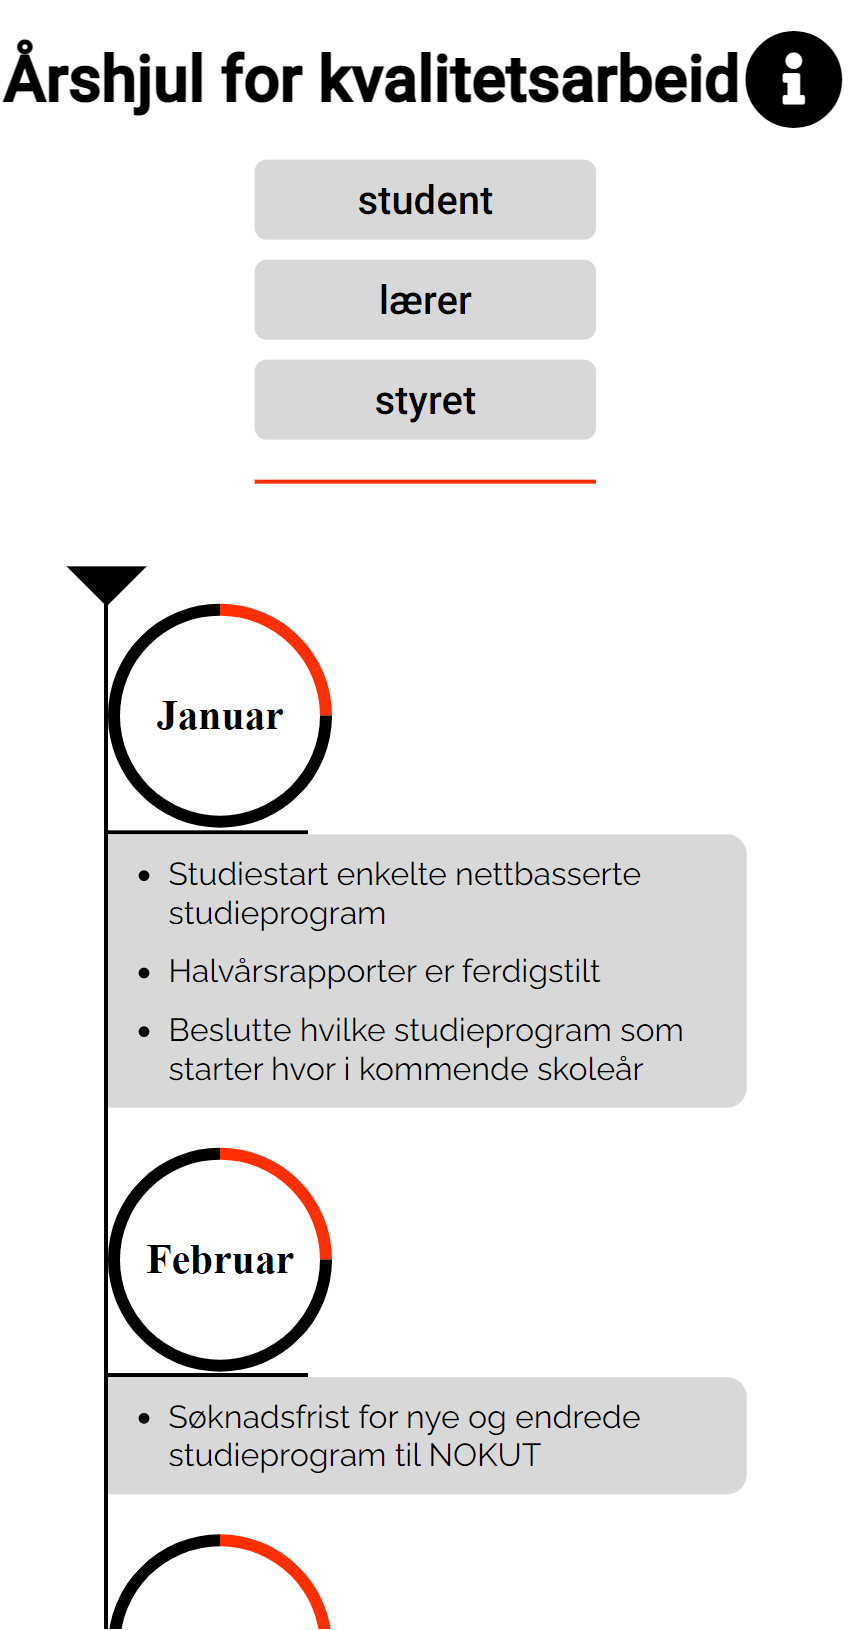
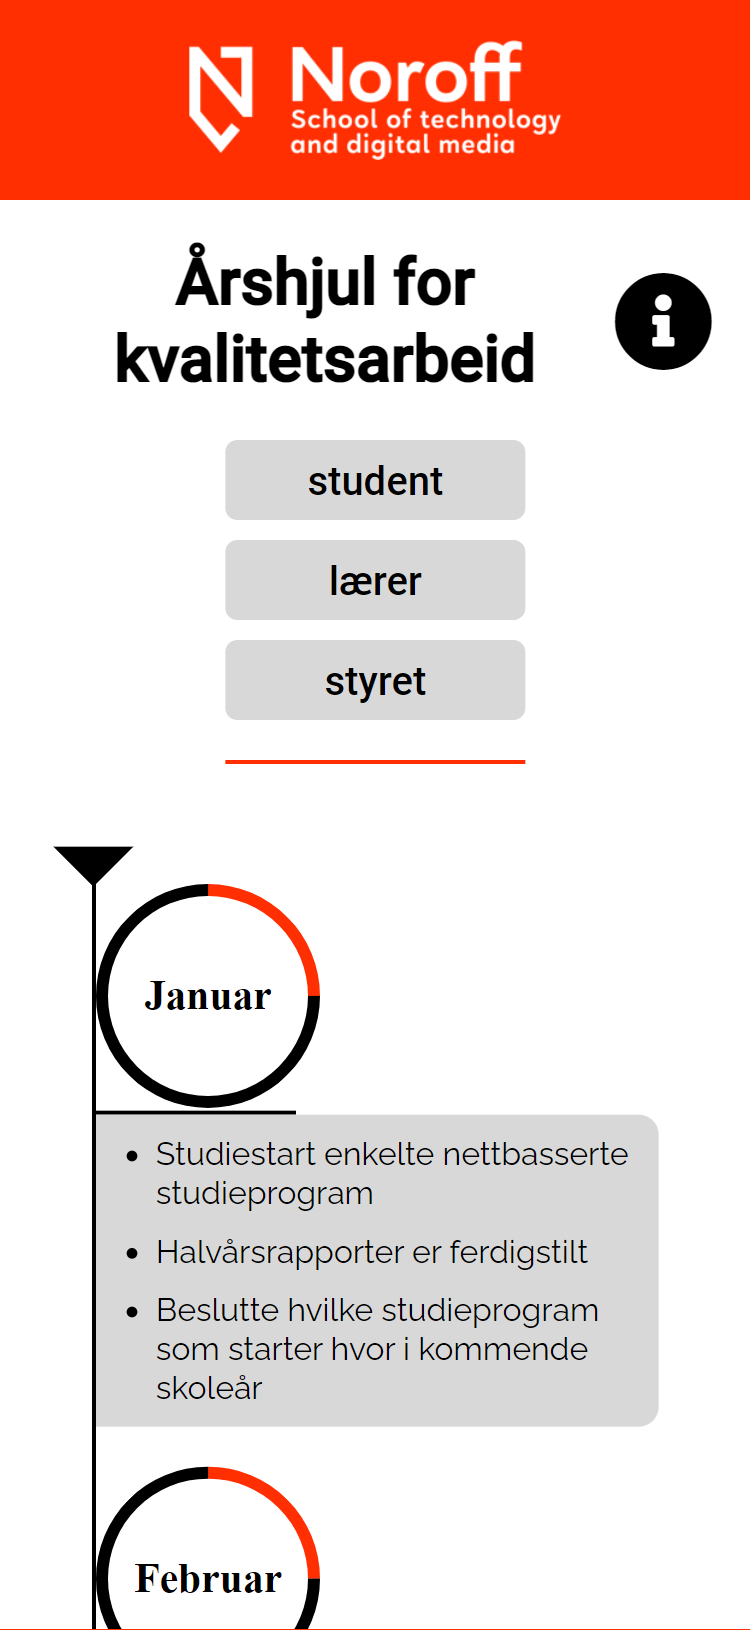
fixed images, style and typo

diff --git a/noroffQuality.html b/noroffQuality.html
@@ -20,11 +20,11 @@
             <a href="index.html#projects">My projects</a>
         </nav>
     </header>
-    <main class="grid">
-        <section class="grid">
+    <main class="grid" id="project">
+        <section class="grid" id="topText">
             <h1>Noroff quality</h1>
             <img src="./assets/quality.svg" alt="The logo for Noroff">
-            <p class="bold">A website where you can find relevant information about of what is happening when in the year</p>
+            <p class="bold">A website where students and teacher can find relevant information about of what is happening in the year</p>
 
             <div class="grid link">
                 <p class="bold">Link to project</p>
@@ -41,9 +41,8 @@
         </section>
         <section class="grid">
             <h2>The requirements</h2>
-            <p>Requirements was as following:</p>
             <ul>
-                <li>user testing to get relevant feedback and see if the product works as intended.</li>
+                <li>user testing to get feedback and see if the product works as intended.</li>
                 <li>
                     store and access the relevant data on an api.
                 </li>
@@ -52,8 +51,7 @@
         </section>
         <section class="grid" id="finalProduct">
             <h2>The final version</h2>
-            <p> The final product is a very simple and easy web page to use, there is not to many choices. the filtering of diffrent data is very fast, and it allows for secondary filters after the main filteris chosen.
-            </p>
+            
             <article class="grid look">
                 <div class="grid">
                 <h3>How it looks</h3>
@@ -61,20 +59,20 @@
                     page looks on diffrent screen sizes, as well as get a feeling of how it is.</p>
                 </div>
                 <div class="grid product mobile">
-                    <h4>Mobile devides</h4>
+                    <h4>Mobile devices</h4>
                     <p>content is displayed in a single column, so there is not too much being shown at once. </p>
                     <img src="./assets/screenshots/noroffmobile.png" alt="screenshot of the mobile version of noroffkvalitet">
                 </div>
                 <div class="grid product tablet">
                     <h4>tablet and medium sized devices</h4>
                     <p>
-                        Room for more content,  the diffrent data now has more width, use of difrent colors make the contrast easy to see between the diffrent months
+                        Room for more content. easy to see what content is grouped.
                     </p>
                     <img src="./assets/screenshots/norofftablet.png" alt="screenshot of the tablet version of noroffkvalitet">
                 </div>
                 <div class="grid product pc">
                     <h4>Laptop and desktop</h4>
-                    <p>with the simplicity of the webpage, the content does not need to look so diffrent from the tablet version, </p>
+                    <p>The page is kept simple, so there is little need to change between the bigger sizes</p>
                     
                     <img src="./assets/screenshots/noroffpc.png" alt="screenshot of the pc version of noroffkvalitet">
                 </div>
@@ -95,7 +93,7 @@
                     <li>Css</li>
                     <li>Figma</li>
                     <li>Javascript</li>
-                    <li>Wordpress for storing content</li>
+                    <li>Wordpress (as headless cms)</li>
 
                 </ul>
             </article>
@@ -119,7 +117,7 @@
 
     </main>
     <footer class="flex">
-        <a class="button" href="index.html#header">Back to top</a>
+        <a class="button" href="#header">Back to top</a>
 
     </footer>
 </body>

diff --git a/communityscienceMuseum.html b/communityscienceMuseum.html
@@ -20,8 +20,8 @@
             <a href="index.html#projects">My projects</a>
         </nav>
     </header>
-    <main class="grid">
-        <section class="grid">
+    <main class="grid" id="project">
+        <section class="grid" id="topText">
             <h1>Community Science Museum</h1>
             <img src="./assets/museumlogo.svg" alt="The logo for the museum">
             <p class="bold">A local museum for Children of all ages. With multiple exhibits and events</p>
@@ -45,11 +45,10 @@
         </section>
         <section class="grid">
             <h2>The requirements</h2>
-            <p>what the website needed</p>
+            
         </section>
         <section class="grid" id="finalProduct">
             <h2>The final version</h2>
-            <p> Here is the final version and its features. a website that works over multiple screen sizes, optimized for quick loading and follows WCAG guide lines.</p>
             <article class="grid look">
                 <div class="grid">
                 <h3>How it looks</h3>
@@ -57,7 +56,7 @@
                     page looks on diffrent screen sizes, as well as get a feeling of how it is.</p>
                 </div>
                 <div class="grid product mobile">
-                    <h4>Mobile devides</h4>
+                    <h4>Mobile devices</h4>
                     <p>On Mobile Devices, i took full advantage of the width of diffrent sizes, so it is more easy to look at images.</p>
                     <img src="./assets/screenshots/museummobile.png">
                 </div>
@@ -114,7 +113,7 @@
 
     </main>
     <footer class="flex">
-        <a class="button" href="index.html#header">Back to top</a>
+        <a class="button" href="#header">Back to top</a>
 
     </footer>
 </body>

diff --git a/css/style.css b/css/style.css
@@ -24,8 +24,16 @@ body{
 h1, h2, h3, h4, a{
     font-family: 'Montserrat', sans-serif;
 }
+h1, h2{
+    font-size: 2rem;
+}
+h3{
+    font-size: 1.8rem;
+}
 p, li{
     font-family: 'Roboto', sans-serif;
+    font-size: 1.3rem;
+
 }
 li{
     margin:8px 2px
@@ -35,6 +43,7 @@ li{
 }
 .link{
     margin-top: 10px;
+    font-size: 1.5rem;
 }
 .link p{
     margin: 2px;
@@ -173,10 +182,20 @@ footer{
     flex-direction: column;
 }
 /*about specific page */
+main#project{
+    row-gap: 100px;
+}
+section#topText p{
+    max-width: 65%;
+    text-align: center;
+}
 #about p{
     max-width: 430px;
+    
 }
+
 #about ul{
+    
     width: 100%;
     margin-top: 0px;
 }
@@ -184,40 +203,42 @@ footer{
     width: 100%;
     margin-bottom: 0px;
 }
+
 section#finalProduct{
-    row-gap: 100px;
 }
 section#finalProduct p{
     max-width: 400px;
 }
 .product{
-    grid-template-columns: 1fr 1fr;
-    max-width: 70%;
-    align-items: start;
-    column-gap: 10px;
+    grid-template-columns: 1fr  1fr;
+    height: 100vh;
+    column-gap: 50px;
 }
 section#finalProduct h4{
     grid-column: 1/3;
+    font-size: 1.8rem;
+}
+.product p{
+    font-size: 1.5rem;
+    line-height: 50px;
 }
 .look{
     row-gap: 50px;
 }
 .mobile img{
-    max-width: 60%;
+    max-width: 20vw;
     border: solid 10px black;
     border-radius: 20px;
 }
 .tablet img{
-    max-width: 80%;
+    max-width: 30vw;
     border: solid 20px black;
     border-radius: 20px;
 }
-.pc p{
-grid-column: 1/3;
-}
+
 .pc img{
-    grid-column: 1/3;
-    max-width: 90%;
+    grid-column: 2/3;
+    max-width: 40vw;
     border: solid 10px black;
     border-radius: 5px;
 }

diff --git a/eksamen.html b/eksamen.html
@@ -20,7 +20,7 @@
             <a href="index.html#projects">My projects</a>
         </nav>
     </header>
-    <main class="grid">
+    <main class="grid" id="project">
         <section class="grid">
             <h1>project name</h1>
             <img src="logo" alt="alt">
@@ -79,7 +79,7 @@
 
     </main>
     <footer class="flex">
-        <a class="button" href="index.html#header">Back to top</a>
+        <a class="button" href="#header">Back to top</a>
 
     </footer>
 </body>
